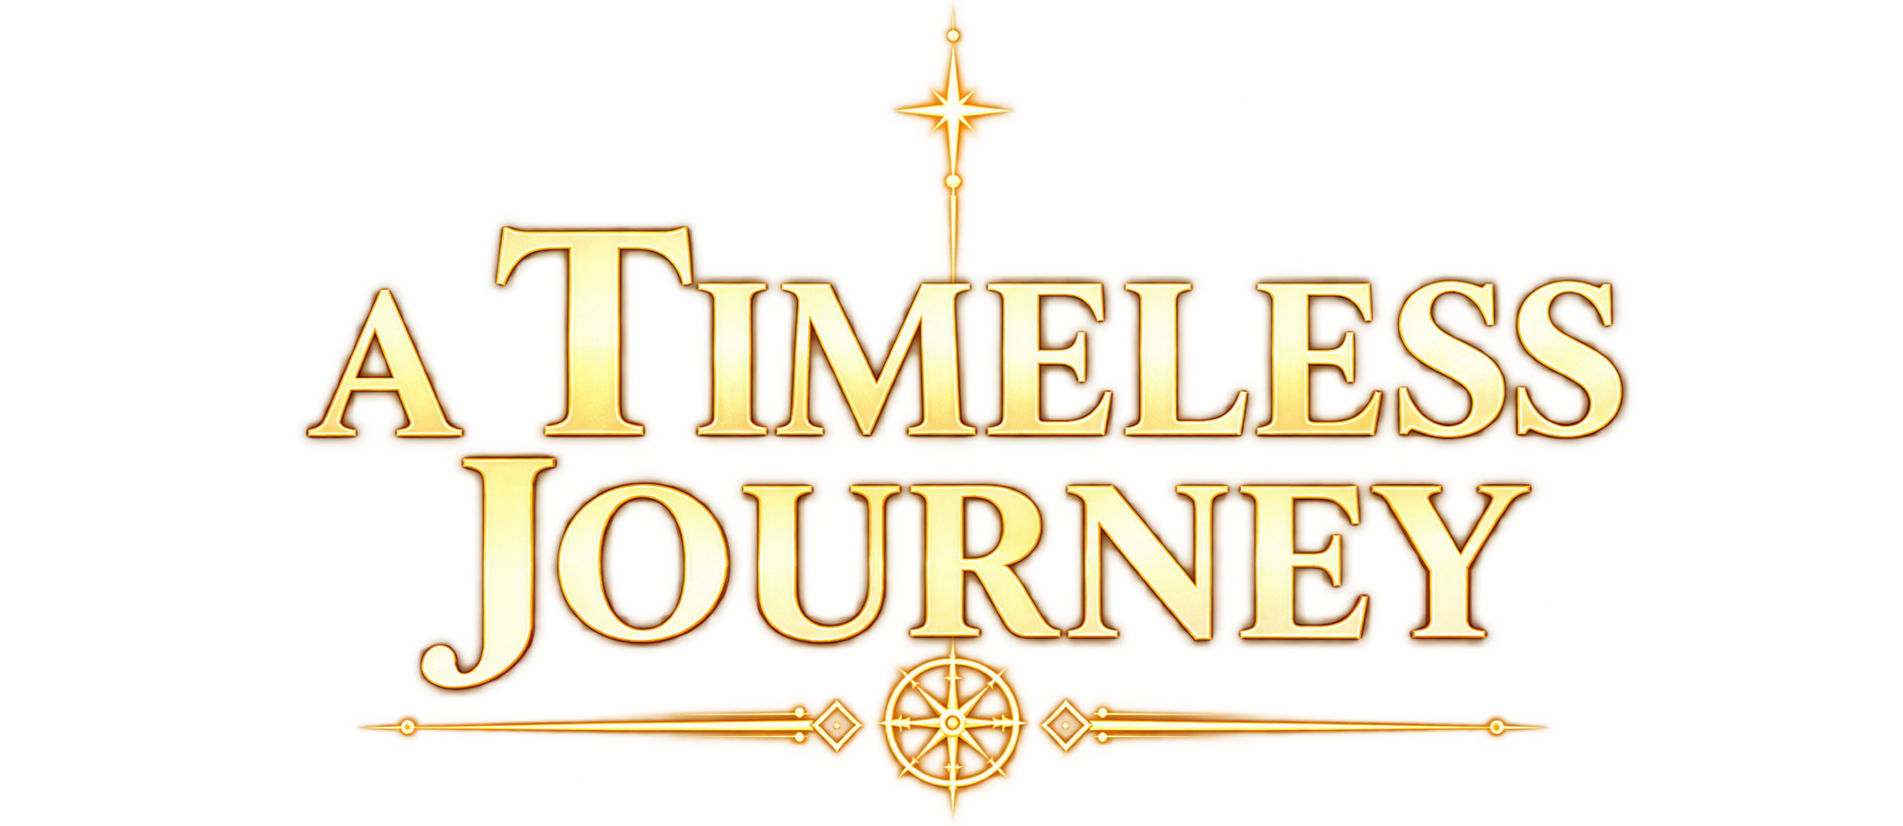
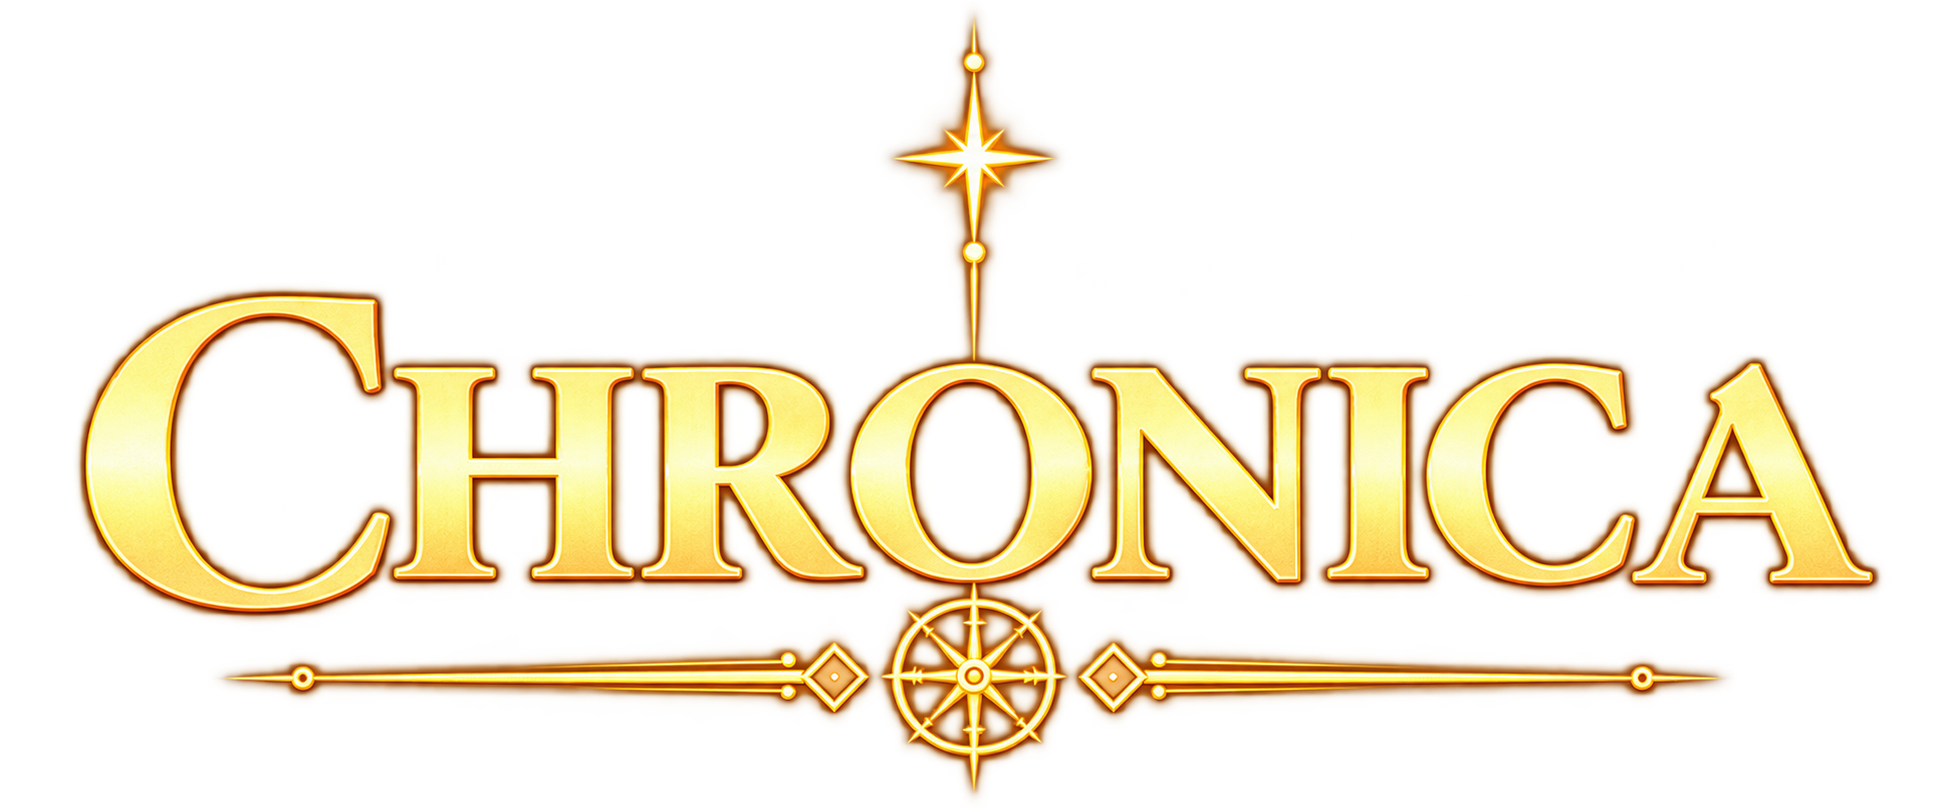
Renommage : A Timeless Journey devient Chronica
- Nouveau logo CHRONICA sur le menu (proportions conservées, TITLE_ASPECT mis à jour).
- Titre de page et métadonnées, nom de package, nom d'application Capacitor (copies générées).
- README et SCENES.md : Chronica = nouveau nom de A Timeless Journey.
- Conservés volontairement : clés de sauvegarde (a-timeless-journey:*), base GitHub Pages
  (/A-timeless-journey/), identifiant d'application com.atimelessjourney.game.

Claude-Session: https://claude.ai/code/session_01CVVXb3zDX1E77k8XbgHYn9

diff --git a/index.html b/index.html
@@ -6,7 +6,10 @@
     <meta name="theme-color" content="#101014" />
     <meta name="mobile-web-app-capable" content="yes" />
     <meta name="apple-mobile-web-app-capable" content="yes" />
-    <title>A Timeless Journey</title>
+    <title>Chronica</title>
+    <meta name="application-name" content="Chronica" />
+    <meta name="apple-mobile-web-app-title" content="Chronica" />
+    <meta name="description" content="Chronica - jeu narratif 2D pixel art pour telephone" />
     <style>
       html, body { margin: 0; padding: 0; width: 100%; height: 100%; background: #101014; overflow: hidden; touch-action: none; }
       #jeu { width: 100%; height: 100%; }

diff --git a/src/systems/SaveGame.ts b/src/systems/SaveGame.ts
@@ -1,6 +1,8 @@
 // Sauvegarde locale (localStorage) : progression du joueur et reglages.
 // Toutes les lectures/ecritures sont protegees : navigation privee ou stockage bloque = pas de sauvegarde.
 
+// Cles de stockage : volontairement conservees sous l'ancien nom du jeu (A Timeless Journey, renomme Chronica)
+// pour ne perdre aucune sauvegarde ni reglage. Ne pas les renommer sans migration.
 const LEGACY_KEY = 'a-timeless-journey:save'; // ancienne sauvegarde unique, migree vers l'emplacement 1
 const SLOTS_KEY = 'a-timeless-journey:slots';
 const SETTINGS_KEY = 'a-timeless-journey:settings';

diff --git a/vite.config.ts b/vite.config.ts
@@ -1,7 +1,9 @@
 import { defineConfig } from 'vite';
 import { fileURLToPath, URL } from 'node:url';
 
-// Sur GitHub Pages le jeu est servi depuis /A-timeless-journey/ et non depuis la racine.
+// Sur GitHub Pages le jeu est servi depuis /A-timeless-journey/ et non depuis la racine : c'est le nom du depot
+// (le jeu s'appelle Chronica, le depot garde son ancien nom). Si le depot est renomme, changer cette valeur en
+// meme temps (l'URL Pages devient /<nouveau-nom>/).
 const REPO_BASE = '/A-timeless-journey/';
 
 export default defineConfig(({ command, isPreview }) => ({

diff --git a/android/app/src/main/assets/public/index.html b/android/app/src/main/assets/public/index.html
@@ -6,7 +6,7 @@
     <meta name="theme-color" content="#101014" />
     <meta name="mobile-web-app-capable" content="yes" />
     <meta name="apple-mobile-web-app-capable" content="yes" />
-    <title>A Timeless Journey</title>
+    <title>Chronica</title>
     <style>html,body{touch-action:none;background:#101014;width:100%;height:100%;margin:0;padding:0;overflow:hidden}#jeu{width:100%;height:100%}canvas{display:block}</style>
     <script type="module" crossorigin src="./bundle/index-BQFC9IaG.js"></script>
   </head>

diff --git a/ios/App/App/public/index.html b/ios/App/App/public/index.html
@@ -6,7 +6,7 @@
     <meta name="theme-color" content="#101014" />
     <meta name="mobile-web-app-capable" content="yes" />
     <meta name="apple-mobile-web-app-capable" content="yes" />
-    <title>A Timeless Journey</title>
+    <title>Chronica</title>
     <style>html,body{touch-action:none;background:#101014;width:100%;height:100%;margin:0;padding:0;overflow:hidden}#jeu{width:100%;height:100%}canvas{display:block}</style>
     <script type="module" crossorigin src="./bundle/index-BQFC9IaG.js"></script>
   </head>

diff --git a/src/scenes/TitleScene.ts b/src/scenes/TitleScene.ts
@@ -16,7 +16,7 @@ import { useLogicalCamera } from '@/ui/UiImage';
 
 // Fond commun (852 x 1846) : le heros est en bas a droite, ses pieds a 76 % de la hauteur.
 const BG = { width: 852, height: 1846, heroFeetY: 1405 };
-const TITLE_ASPECT = 678 / 1100;
+const TITLE_ASPECT = 483 / 1100; // logo CHRONICA (assets/menu/titre.png)
 const BUTTON_RATIOS = { continuer: 198 / 1000, nouvelle: 185 / 1000, parametres: 221 / 1000 };
 const GOLD = 0xf2c46b;
 

diff --git a/README.md b/README.md
@@ -1,4 +1,9 @@
-# A Timeless Journey
+# Chronica
+
+> **Chronica** est le nouveau nom du jeu, anciennement **A Timeless Journey**. Les deux noms désignent le même
+> projet : l'ancien nom reste volontairement dans le nom du dépôt GitHub (`a-timeless-journey`), l'URL GitHub Pages
+> (`/A-timeless-journey/`, voir `vite.config.ts`), l'identifiant d'application Capacitor (`com.atimelessjourney.game`)
+> et les clés de sauvegarde du navigateur (`a-timeless-journey:*`, voir `SaveGame.ts`), pour ne rien casser.
 
 Jeu narratif 2D en pixel art, vue latérale, pour téléphone (portrait).
 Le joueur traverse des mondes, résout des énigmes et parle aux personnages. Pas de saut : on marche, on monte des escaliers et des échelles, on touche les objets pour interagir.

diff --git a/docs/SCENES.md b/docs/SCENES.md
@@ -1,5 +1,7 @@
 # Carte des scènes narratives
 
+(Le jeu s'appelle **Chronica**, anciennement *A Timeless Journey* : les deux noms désignent le même projet.)
+
 Référence pour reprendre une scène : quels fichiers ouvrir, où sont ses textes, ses données, ses assets et son état
 sauvegardé. Une **scène narrative** est une étape de l'histoire ; un **lieu** (salle) est une `RoomScene` jouable.
 Une scène peut traverser plusieurs lieux, et un lieu peut servir à plusieurs scènes.
